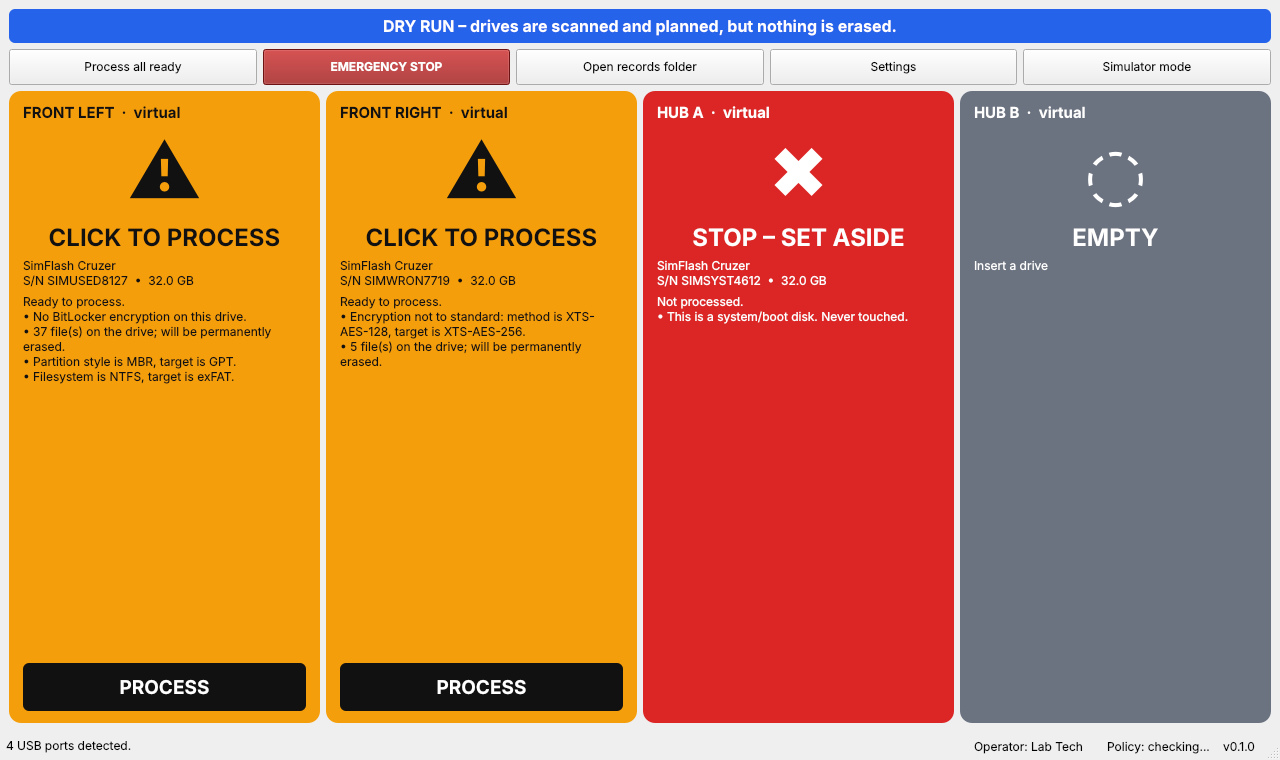
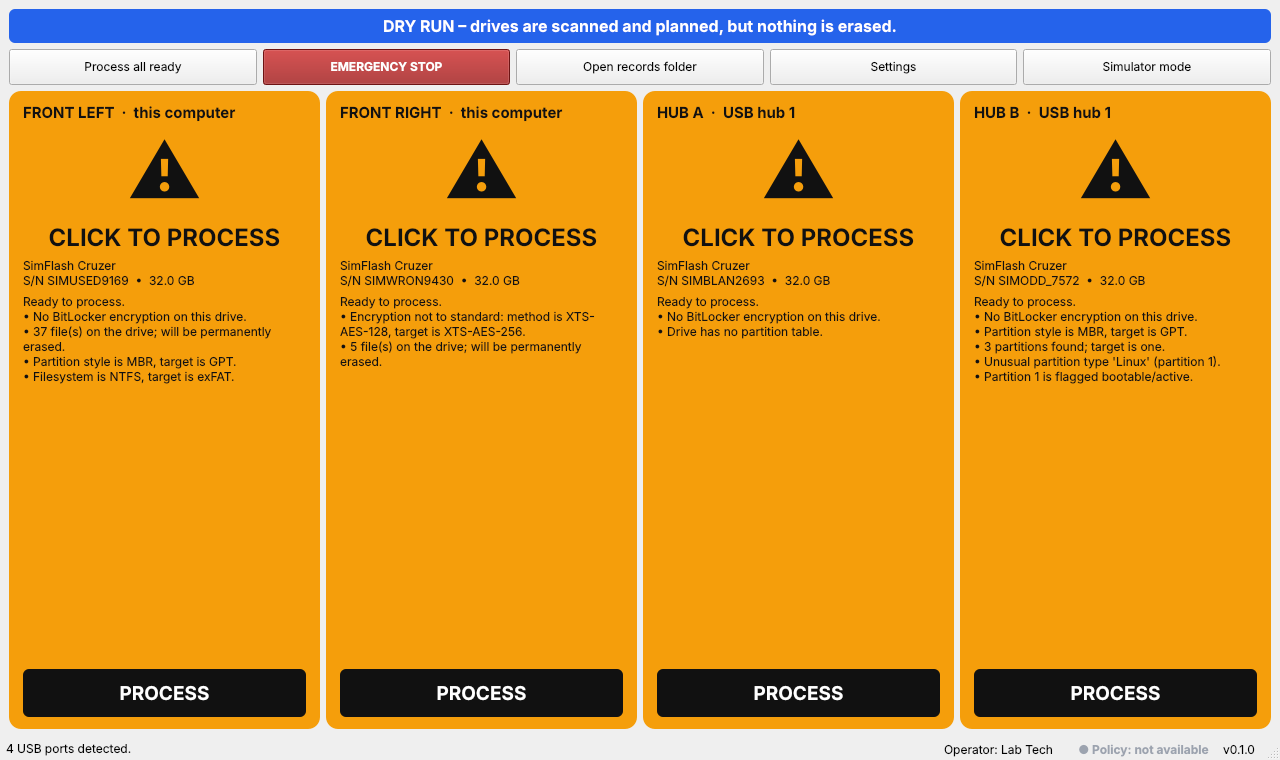
cleanup

diff --git a/tests/test_updater.py b/tests/test_updater.py
@@ -19,7 +19,7 @@ def make_zip(files, wrapper="usblockbox-1.2.0/"):
     return buf.getvalue()
 
 
-GOOD_FILES = {"run_station.py": "print('new')", "usblockbox/__init__.py": "__version__='1.2.0'",
+GOOD_FILES = {"run_usblockbox.py": "print('new')", "usblockbox/__init__.py": "__version__='1.2.0'", "usblockbox/__main__.py": "y=2",
               "usblockbox/core.py": "x=1", "data/settings.json": "{\"hostile\": true}"}
 
 
@@ -124,7 +124,7 @@ def test_apply_update_replaces_code_keeps_data_and_backs_up(tmp_path):
     (tmp_path / "data" / "settings.json").write_text("mine")
     written = updater.apply_update(make_zip(GOOD_FILES), tmp_path, "1.0.0")
     assert (tmp_path / "usblockbox" / "core.py").read_text() == "x=1"
-    assert (tmp_path / "run_station.py").exists()
+    assert (tmp_path / "run_usblockbox.py").exists()
     assert (tmp_path / "data" / "settings.json").read_text() == "mine"          # data/ is never overwritten
     assert "data/settings.json" not in written
     backups = list((tmp_path / ".update_backup").rglob("core.py"))
@@ -136,7 +136,7 @@ def test_apply_update_replaces_code_keeps_data_and_backs_up(tmp_path):
 def test_zip_slip_rejected(tmp_path, evil):
     buf = io.BytesIO()
     with zipfile.ZipFile(buf, "w") as z:
-        z.writestr("run_station.py", "x"); z.writestr("usblockbox/__init__.py", "x"); z.writestr(evil, "boom")
+        z.writestr("run_usblockbox.py", "x"); z.writestr("usblockbox/__init__.py", "x"); z.writestr(evil, "boom")
     with pytest.raises(UpdateError):
         updater.apply_update(buf.getvalue(), tmp_path)
     assert not (tmp_path.parent / "evil.py").exists()
@@ -145,7 +145,7 @@ def test_zip_slip_rejected(tmp_path, evil):
 def test_symlink_rejected(tmp_path):
     buf = io.BytesIO()
     with zipfile.ZipFile(buf, "w") as z:
-        z.writestr("run_station.py", "x"); z.writestr("usblockbox/__init__.py", "x")
+        z.writestr("run_usblockbox.py", "x"); z.writestr("usblockbox/__init__.py", "x")
         info = zipfile.ZipInfo("link"); info.external_attr = (0o120777 << 16)
         z.writestr(info, "/etc/passwd")
     with pytest.raises(UpdateError, match="Symbolic link"):
@@ -163,7 +163,7 @@ def test_git_checkout_is_never_modified(tmp_path):
     (tmp_path / ".git").mkdir()
     with pytest.raises(UpdateError, match="git"):
         updater.apply_update(make_zip(GOOD_FILES), tmp_path)
-    assert not (tmp_path / "run_station.py").exists()
+    assert not (tmp_path / "run_usblockbox.py").exists()
 
 
 def test_no_release_yet_is_explained_not_called_unreachable():
@@ -180,3 +180,11 @@ def test_other_http_errors_are_passed_through():
     with pytest.raises(UpdateError) as e:
         updater.check_for_update("0.1.0", "owner/repo", fetch)
     assert "403" in str(e.value)
+
+
+def test_archive_without_the_app_package_is_refused(tmp_path):
+    z = io.BytesIO()
+    with zipfile.ZipFile(z, "w") as zf:
+        zf.writestr("usblockbox-9.9.9/readme.txt", "not the app")
+    with pytest.raises(UpdateError):
+        updater.apply_update(z.getvalue(), tmp_path, "0.1.0")

diff --git a/usblockbox/backends/windows.py b/usblockbox/backends/windows.py
@@ -113,10 +113,10 @@ class WindowsBackend(Backend):
     name = "windows"
     real = True
 
-    def __init__(self, station_password_getter=None, elevated: bool = True):
+    def __init__(self, password_getter=None, elevated: bool = True):
         if sys.platform != "win32":
             raise BackendError("The Windows backend only runs on Windows.", "PLATFORM")
-        self._pw = station_password_getter or (lambda: "")
+        self._pw = password_getter or (lambda: "")
         self.elevated = elevated
         self._scanner = usbports.PortScanner(run_ps)
         self.ports_note = ""
@@ -187,11 +187,11 @@ ConvertTo-Json -InputObject @($n | Select-Object -Unique)
                                             _as_list(info.get("Protectors")), False)
                 if not d.bitlocker.locked:
                     pw = self._pw()
-                    d.bitlocker.unlocked_with_station_password = bool(pw) and self.verify_station_password(d, pw)
+                    d.bitlocker.unlocked_with_fixed_password = bool(pw) and self.verify_password(d, pw)
                 else:
                     pw = self._pw()
-                    if pw and self.verify_station_password(d, pw):
-                        d.bitlocker.unlocked_with_station_password = True
+                    if pw and self.verify_password(d, pw):
+                        d.bitlocker.unlocked_with_fixed_password = True
                         d.bitlocker.locked = False
             if not (d.bitlocker.present and d.bitlocker.locked):
                 v.file_count, v.file_detail = self._count_files(v.drive_letter)
@@ -226,7 +226,7 @@ ConvertTo-Json -InputObject @($n | Select-Object -Unique)
             return None, ""
         return n, describe_counts(top, per, hidden, mac_meta)
 
-    def verify_station_password(self, drive: DriveInfo, password: str) -> bool:
+    def verify_password(self, drive: DriveInfo, password: str) -> bool:
         """Non-destructive: lock then unlock with the password (VERIFY that Lock on an unlocked
         removable volume is acceptable in your environment)."""
         for v in drive.volumes:
@@ -443,7 +443,7 @@ ConvertTo-Json -InputObject @($n | Select-Object -Unique)
         types = _as_list(info.get("Protectors"))
         if "Password" not in types or "RecoveryPassword" not in types:
             raise BackendError(f"Verification failed: protectors are {types}.", "VERIFY")
-        if not self.verify_station_password(DriveInfo(drive.disk_number, drive.unique_id, drive.serial,
+        if not self.verify_password(DriveInfo(drive.disk_number, drive.unique_id, drive.serial,
                                                       volumes=[VolumeInfo(drive_letter=letter)]), password):
             raise BackendError("Verification failed: password did not unlock the drive.", "VERIFY")
 

diff --git a/usblockbox/backends/simulated.py b/usblockbox/backends/simulated.py
@@ -11,7 +11,7 @@ from ..models import BitLockerInfo, DriveInfo, PartitionInfo, Port, VolumeInfo
 from .base import Backend, BackendError, Cancelled, CancelCheck, Progress
 
 GB = 1_000_000_000
-STATION_PW_DEFAULT = "Sim-Station-Pass-2026"   # dummy value for the simulator and tests only
+SIM_PASSWORD_DEFAULT = "Sim-Pass-2026-Demo"   # dummy value for the simulator and tests only
 
 SCENARIOS = [
     "blank", "used_files", "compliant_empty", "wrong_method", "odd_boot",
@@ -33,10 +33,10 @@ class SimulatedBackend(Backend):
     name = "simulated"
     real = False
 
-    def __init__(self, speed: float = 1.0, station_password: str = STATION_PW_DEFAULT, port_count: int = 4):
+    def __init__(self, speed: float = 1.0, sim_password: str = SIM_PASSWORD_DEFAULT, port_count: int = 4):
         self.port_count = port_count
         self.speed = speed                  # >1 is faster. Tests use a large value.
-        self.station_password = station_password
+        self.sim_password = sim_password
         self._lock = threading.RLock()
         self._disks: dict[int, DriveInfo] = {}
         self._passwords: dict[str, str] = {}      # serial -> password protecting the drive
@@ -64,11 +64,11 @@ class SimulatedBackend(Backend):
             elif scenario == "compliant_empty":
                 d.partition_style = "GPT"; d.partitions = [basic]; d.volumes = [vol(0)]
                 d.bitlocker = BitLockerInfo(True, True, "XtsAes256", 100.0, False, ["Password", "RecoveryPassword"], True)
-                self._passwords[serial] = self.station_password
+                self._passwords[serial] = self.sim_password
             elif scenario == "wrong_method":
                 d.partition_style = "GPT"; d.partitions = [basic]; d.volumes = [vol(5)]
                 d.bitlocker = BitLockerInfo(True, True, "XtsAes128", 100.0, False, ["Password"], True)
-                self._passwords[serial] = self.station_password
+                self._passwords[serial] = self.sim_password
             elif scenario == "odd_boot":
                 d.partition_style = "MBR"; d.mbr_boot_code_present = True
                 d.partitions = [PartitionInfo(1, "Linux", 8 * GB, True), PartitionInfo(2, "EFI System", 100_000_000),
@@ -134,7 +134,7 @@ class SimulatedBackend(Backend):
     def system_disk_numbers(self) -> set[int]:
         return set(self.system_disks)
 
-    def verify_station_password(self, drive: DriveInfo, password: str) -> bool:
+    def verify_password(self, drive: DriveInfo, password: str) -> bool:
         with self._lock:
             d = self._disks.get(drive.disk_number)
             return bool(d and self._passwords.get(d.serial) == password)

diff --git a/usblockbox/scan.py b/usblockbox/scan.py
@@ -12,7 +12,7 @@ RESERVED_MAX = 32 * 1024 * 1024   # Microsoft Reserved partition size tolerated 
 
 
 def _history_ok(history: list[dict]) -> bool:
-    """True if records show this serial was successfully provisioned by this station."""
+    """True if records show this serial was successfully provisioned by this app."""
     return any(r.get("outcome") == "PROCESSED" for r in history)
 
 
@@ -50,9 +50,9 @@ def scan_drive(drive: DriveInfo, settings: Settings, system_disks: set[int],
     enc_ok = False
     if not bl.present:
         add(Finding("NOT_ENCRYPTED", Severity.NEEDS_WORK, "No BitLocker encryption on this drive."))
-    elif bl.locked and not bl.unlocked_with_station_password:
+    elif bl.locked and not bl.unlocked_with_fixed_password:
         add(Finding("ENC_LOCKED", Severity.NEEDS_WORK,
-                    "Encrypted but locked and the station password does not open it. Contents unknown; will be wiped."))
+                    "Encrypted but locked and the fixed password does not open it. Contents unknown; will be wiped."))
     else:
         problems = []
         if bl.method != target:
@@ -61,13 +61,13 @@ def scan_drive(drive: DriveInfo, settings: Settings, system_disks: set[int],
             problems.append(f"only {bl.percent_encrypted:.0f}% encrypted")
         if not bl.protection_on:
             problems.append("protection is off")
-        if not bl.unlocked_with_station_password:
-            problems.append("station password was not verified")
+        if not bl.unlocked_with_fixed_password:
+            problems.append("fixed password was not verified")
         if problems:
             add(Finding("ENC_WRONG", Severity.NEEDS_WORK, "Encryption not to standard: " + "; ".join(problems) + "."))
         else:
             enc_ok = True
-            add(Finding("ENC_OK", Severity.INFO, f"Encrypted with {method_label(target)}, fully encrypted, station password opens it."))
+            add(Finding("ENC_OK", Severity.INFO, f"Encrypted with {method_label(target)}, fully encrypted, the fixed password opens it."))
 
     # ---- 4. content
     files = drive.total_files

diff --git a/tools/ui_smoke.py b/tools/ui_smoke.py
@@ -7,7 +7,7 @@ from PySide6.QtCore import Qt
 from PySide6.QtGui import QColor
 from PySide6.QtWidgets import QApplication
 from usblockbox import policy
-from usblockbox.backends.simulated import SimulatedBackend, STATION_PW_DEFAULT
+from usblockbox.backends.simulated import SimulatedBackend, SIM_PASSWORD_DEFAULT
 from usblockbox.config import Settings
 from usblockbox.models import SlotState
 from usblockbox.ui.controller import Controller
@@ -19,7 +19,7 @@ out.mkdir(parents=True, exist_ok=True)
 os.environ["USBLOCKBOX_HOME"] = str(out / "home")      # keeps timings.json out of the real data folder
 app = QApplication([])
 apply_tooltip_style()
-s = Settings(); s.csv_dir = str(out / "csv"); s.pdf_dir = str(out / "pdf"); s.set_fixed_password(STATION_PW_DEFAULT)
+s = Settings(); s.csv_dir = str(out / "csv"); s.pdf_dir = str(out / "pdf"); s.set_fixed_password(SIM_PASSWORD_DEFAULT)
 
 class FakeHardware(SimulatedBackend):
     """Stands in for the computer's own USB ports (3 of them) so the launch path can be checked."""
@@ -80,7 +80,7 @@ tw.setCurrentIndex(3)
 for mode, fixed_vis, glen_vis in (("generated", False, True), ("prompt", False, False), ("fixed", True, True)):
     dlg.pmode.setCurrentIndex(dlg.pmode.findData(mode)); pump(0.1)
     assert dlg.fixed_field.isVisibleTo(dlg) == fixed_vis and dlg.glen.isVisibleTo(dlg) == glen_vis, mode
-assert dlg.fixed.text() == STATION_PW_DEFAULT                     # the fixed password is shown
+assert dlg.fixed.text() == SIM_PASSWORD_DEFAULT                     # the fixed password is shown
 assert "XTS-AES-256" in dlg.method.itemText(0) and dlg.method.itemText(2) == "AES-CBC-256"
 dlg.dry.setChecked(True)
 assert "operator" not in " ".join(tw.tabText(i).lower() for i in range(tw.count()))

diff --git a/tests/test_core.py b/tests/test_core.py
@@ -15,7 +15,7 @@ def scan(backend, settings, scenario, port=1, pol=None, hist=None):
     d = backend.add_scenario(scenario, port)
     pw = settings.get_fixed_password()
     # mimic what a real backend does: verify the password on already-encrypted drives
-    if d.bitlocker.present and backend.verify_station_password(d, pw):
+    if d.bitlocker.present and backend.verify_password(d, pw):
         pass
     return scan_drive(backend.get_drive(d.disk_number), settings, backend.system_disk_numbers(),
                       pol, {f"sim-port-{i}" for i in range(1, 17)}, hist or [])
@@ -108,14 +108,14 @@ def test_locked_unknown_is_wiped(backend, settings):
 
 def test_compliant_empty_is_refreshed_by_default(backend, settings):
     d = backend.add_scenario("compliant_empty", 1)
-    d.bitlocker.unlocked_with_station_password = True
+    d.bitlocker.unlocked_with_fixed_password = True
     r = scan_drive(d, settings, set(), None, None, [{"outcome": "PROCESSED"}])
     assert r.verdict == Verdict.NEEDS_WORK and any(f.code == "REFRESH" for f in r.findings)
 
 
 def test_compliant_empty_skipped_only_with_opt_in_and_history(backend, settings):
     d = backend.add_scenario("compliant_empty", 1)
-    d.bitlocker.unlocked_with_station_password = True
+    d.bitlocker.unlocked_with_fixed_password = True
     settings.reuse_compliant_drives = True
     assert scan_drive(d, settings, set(), None, None, []).verdict == Verdict.NEEDS_WORK     # no history
     assert scan_drive(d, settings, set(), None, None, [{"outcome": "PROCESSED"}]).verdict == Verdict.ALREADY_OK

diff --git a/usblockbox/ui/controller.py b/usblockbox/ui/controller.py
@@ -435,7 +435,7 @@ class Controller(QObject):
                          f"{eta.fmt_clock(now + slot.remaining)}" + ("" if slot.remaining_measured else " (rough guess)"))
             slot.timing_text = line1 + "\n" + line2
         elif slot.finished_at and slot.state in (SlotState.DONE, SlotState.FAILED, SlotState.ALREADY_OK):
-            slot.timing_text = (f"Finished {eta.fmt_clock(slot.finished_at)} · {eta.fmt_duration(now - slot.finished_at)} ago"
+            slot.timing_text = (f"Finished {eta.fmt_clock(slot.finished_at)} · {eta.fmt_ago(now - slot.finished_at)}"
                                 f" · took {eta.fmt_duration(slot.finished_at - slot.started_at)}")
         else:
             slot.timing_text = ""
@@ -475,7 +475,7 @@ class Controller(QObject):
             return "   ·   ".join(parts), "working"
         if self._batch_finished_at and any(s.state != SlotState.EMPTY for s in self.slots):
             parts = [f"Batch finished {eta.fmt_clock(self._batch_finished_at)} "
-                     f"({eta.fmt_duration(now - self._batch_finished_at)} ago)",
+                     f"({eta.fmt_ago(now - self._batch_finished_at)})",
                      f"took {eta.fmt_duration(self._batch_finished_at - self._batch_started)}",
                      f"{self._batch_done} done" + (f", {self._batch_failed} FAILED: set those aside" if self._batch_failed else "")]
             return "   ·   ".join(parts), ("attention" if self._batch_failed else "finished")

diff --git a/usblockbox/records.py b/usblockbox/records.py
@@ -167,7 +167,7 @@ def write_pdf(settings: Settings, scan: ScanResult, run: RunResult, row: dict) -
         return t
 
     d = scan.drive
-    story = [Paragraph("USB Lockbox Provisioning Record", ss["Title"])]
+    story = [Paragraph("USB Lockbox Drive Record", ss["Title"])]
     b = Table([[Paragraph(f"<font color='white'><b>{run.outcome}</b></font>", ss["Heading2"])]], colWidths=[7 * inch])
     b.setStyle(TableStyle([("BACKGROUND", (0, 0), (-1, -1), banner_color)]))
     story += [b, Spacer(1, 8)]
@@ -205,7 +205,7 @@ def write_pdf(settings: Settings, scan: ScanResult, run: RunResult, row: dict) -
         "Overwrite on flash media is NIST SP 800-88 Clear, not Purge.", small)]
     SimpleDocTemplate(str(path), pagesize=letter, leftMargin=0.7 * inch, rightMargin=0.7 * inch,
                       topMargin=0.7 * inch, bottomMargin=0.7 * inch,
-                      title="USB Lockbox Provisioning Record").build(story)
+                      title="USB Lockbox Drive Record").build(story)
     return path
 
 

diff --git a/usblockbox/config.py b/usblockbox/config.py
@@ -64,7 +64,7 @@ DEFAULT_COLORS = {
 }
 
 
-APP_ROOT = Path(__file__).resolve().parent.parent      # the folder that holds run_station.py
+APP_ROOT = Path(__file__).resolve().parent.parent      # the folder that holds run_usblockbox.py
 _DATA_DIR: Path | None = None
 DATA_DIR_FALLBACK = False                               # True if the app folder was not writable
 
@@ -169,7 +169,7 @@ class Settings:
     operator: str = ""                      # optional override; by default the signed-in Windows user is used
     schema_version: int = 2                 # older files (before 2) are started in dry-run once
 
-    # Station
+    # Ports and the simulator
     hidden_ports: list = field(default_factory=list)   # port keys the operator chose not to show (Settings > Ports)
     port_names: dict = field(default_factory=dict)     # port key -> the operator's label
     simulator_ports: int = 4                # number of virtual ports in Simulator mode (real ports are detected)

diff --git a/usblockbox/policy.py b/usblockbox/policy.py
@@ -61,13 +61,13 @@ def evaluate(raw: dict[str, dict], settings: Settings,
 
     if not gpo and not mdm:
         rep.items.append(PolicyItem("BitLocker policy", "none found", "derived", "ok",
-                                    "No GPO or Intune BitLocker settings detected on this station."))
+                                    "No GPO or Intune BitLocker settings detected on this computer."))
 
     # 1) BitLocker on removable drives disabled
     if gpo.get(GPO_REMOVABLE_CONFIGURE) == 0:
         rep.items.append(PolicyItem(GPO_REMOVABLE_CONFIGURE, "0", "GPO", "block",
                                     "Group Policy disables BitLocker on removable drives. "
-                                    "This station cannot encrypt drives until the policy is scoped out."))
+                                    "This computer cannot encrypt drives until the policy is scoped out."))
 
     # 2) Encryption method forced by policy
     if GPO_REMOVABLE_METHOD in gpo:

diff --git a/tests/conftest.py b/tests/conftest.py
@@ -9,7 +9,7 @@ os.environ.setdefault("USBLOCKBOX_HOME", tempfile.mkdtemp(prefix="usblockbox_tes
 
 sys.path.insert(0, str(Path(__file__).resolve().parents[1]))
 
-from usblockbox.backends.simulated import SimulatedBackend, STATION_PW_DEFAULT  # noqa: E402
+from usblockbox.backends.simulated import SimulatedBackend, SIM_PASSWORD_DEFAULT  # noqa: E402
 from usblockbox.config import Settings  # noqa: E402
 
 
@@ -18,7 +18,7 @@ def settings(tmp_path):
     s = Settings()
     s.csv_dir = str(tmp_path / "csv")
     s.pdf_dir = str(tmp_path / "pdf")
-    s.set_fixed_password(STATION_PW_DEFAULT)
+    s.set_fixed_password(SIM_PASSWORD_DEFAULT)
     s.overwrite_passes = 3
     s.dry_run = False                   # tests exercise the erase path against the simulator
     s.include_secrets_csv = True        # the code path under test; the shipped default is False

diff --git a/usblockbox/ui/settings_dialog.py b/usblockbox/ui/settings_dialog.py
@@ -282,7 +282,7 @@ class SettingsDialog(QDialog):
         self.rec_warn = _note("", warn=True)
         f.addRow(self.rec_warn)
         f.addRow(_note("Defaults live in the 'data' folder next to the app. Move the folders anywhere you like, "
-                       "but keep them on a restricted, backed-up location and never on a drive this station wipes."))
+                       "but keep them on a restricted, backed-up location and never on a drive this app wipes."))
         if DATA_DIR_FALLBACK:
             f.addRow(_note("The app folder is not writable, so the per-user profile folder is used for data.", warn=True))
         self.sec_csv.toggled.connect(self._sync_record_warning); self.sec_pdf.toggled.connect(self._sync_record_warning)
